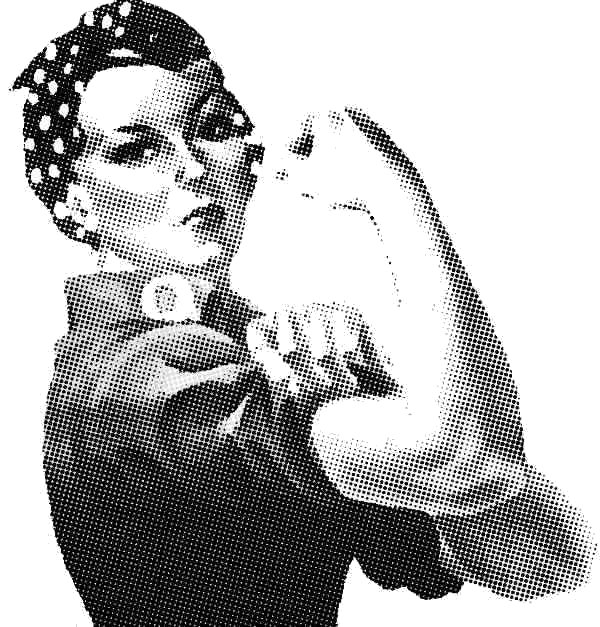
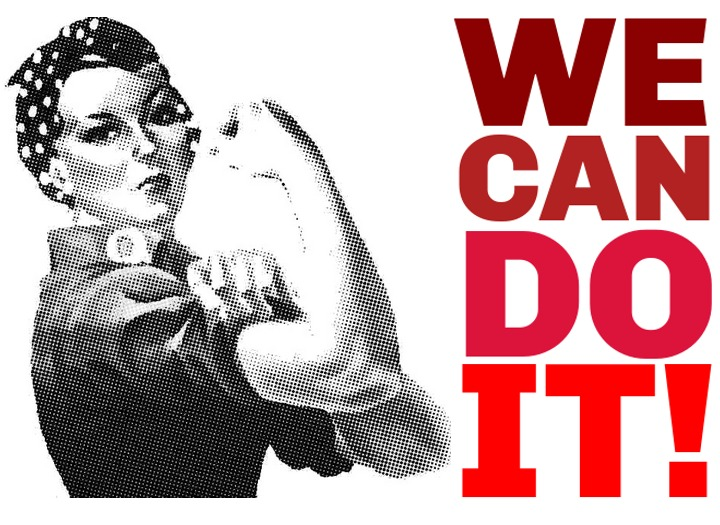
Improved CSS (colors and font change), changed structure of navbar, preparation for partials (navbar and footer), front page image with text.

diff --git a/app/assets/stylesheets/bootstrap_custom.css.scss b/app/assets/stylesheets/bootstrap_custom.css.scss
@@ -1,7 +1,22 @@
+$navbarBackgroundHighlight: #B22222;
+$navbarBackground: #8B0000;
+$navbarText: #EEEEEE;
+$navbarLinkColor: #F5DEB3;
+$navbarLinkColorHover: #FFA500;
+$navbarLinkColorActive: #FFFFFF;
+$navbarLinkBackgroundActive: transparent;
+$navbarLinkBackgroundHover: transparent;
+
 @import "bootstrap";
+
+@import url(http://fonts.googleapis.com/css?family=Droid+Sans);
 
 html, body {
 	height: 100%;
+}
+
+.center {
+  text-align: center;
 }
 
 .wrapper {
@@ -12,10 +27,81 @@ html, body {
 }
 
 .footer, .push {
-	height: 4em;
-	text-align: center;
+	height: 4em;	
 }
 
-.footer {
-	color: DeepPink;
+.footer {	
+  margin-top: 45px;
+  padding-top: 5px;
+  border-top: 1px dashed #DCDCDC;
+  color: #708090;
+  a {
+    color: #7CFC00;
+    &:hover { 
+      color: #FF1493;
+    }
+  }  
+  small { 
+    float: right;
+    margin-right: 10px;
+    margin-top: 15px;
+    color: DeepPink;
+  }
+  ul {
+    float: left;
+    list-style: none;
+    li {
+      float: left;
+      margin-left: 10px;
+    }
+  }
+}
+
+.navbar {
+  .navbar-inner div > span ul a, .nav a {
+     font-size: 16px;
+     padding-top: 12px;
+     padding-bottom: 12px;
+     font-family: 'Droid Sans', sans-serif;
+     text-transform: uppercase;
+  }
+  #logo {
+    float: left;
+    font-family: 'Droid Sans', sans-serif;
+    font-size: 20px;    
+    color: white;
+    text-transform: none;
+    padding-top: 10px;
+    font-weight: bold;
+    &:hover {
+      color: white;
+      text-decoration: none;
+    }
+  }
+  .active {
+    font-weight: bold;
+  }
+  .dropdown-menu {
+    &:before {
+      border-bottom-color: #CCC;
+    }
+    &:after {
+      border-bottom-color: Red;
+    }
+  }
+  div > ul .menu-dropdown, .nav .menu-dropdown, .topbar div > ul .dropdown-menu, .nav .dropdown-menu {
+    background-color: White;
+    li {
+      a {
+        font-size: 12px;
+        background: White;
+        color: Black;
+        &:hover {
+          font-size: 12px;
+          color: #FFA500;
+          background-color: #B22222;
+        }
+      }
+    }
+  }
 }

diff --git a/app/assets/stylesheets/home.css.scss b/app/assets/stylesheets/home.css.scss
@@ -1,27 +1,3 @@
 // Place all the styles related to the home controller here.
 // They will automatically be included in application.css.
 // You can use Sass (SCSS) here: http://sass-lang.com/
-
-.logo-we {
-	font-family: 'Chivo', sans-serif; font-size: 145px;
-	font-weight: 900;
-	color: Darkred;
-	line-height: 105px;
-}
-
-.logo-can {
-	font-size: 115px;
-	color: Firebrick;
-}
-
-.logo-do {
-	font-size: 170px;
-	line-height: 110px;
-	color: Crimson;
-}
-
-.logo-it {
-	font-size: 180px;
-	line-height: 130px;
-	color: Red;
-}
